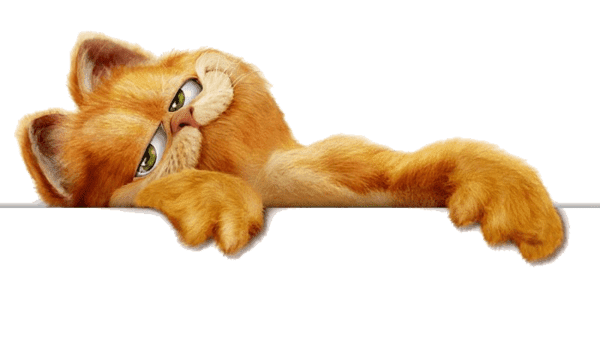
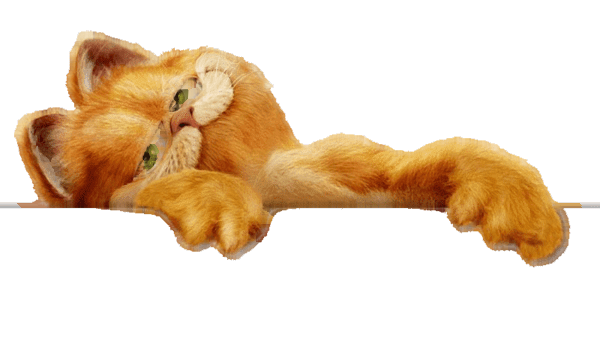
加菲猫白边清除(defringe v3)并 bump 版本号

diff --git a/docs/app.js b/docs/app.js
@@ -245,7 +245,7 @@
           <img class="rank-capsule" src="${CAPSULE(g.appid)}" alt="" loading="lazy"
                onerror="this.onerror=null;this.classList.add('is-icon');this.src='${icon ?? ''}'">
           <span class="rank-name" title="${escapeHtml(g.name)}">${escapeHtml(g.name)}${playing ? '<span class="tag playing">在玩</span>' : ''}</span>
-          <span class="rank-bar"><span style="${barStyle}"></span>${i === 0 ? '<img class="rank-cat" src="garfield.png?v=1" alt="" draggable="false">' : ''}</span>
+          <span class="rank-bar"><span style="${barStyle}"></span>${i === 0 ? '<img class="rank-cat" src="garfield.png?v=2" alt="" draggable="false">' : ''}</span>
           <span class="rank-min">${hm(g.lifetime_minutes)}</span>
           <span class="rank-last">${g.last_played ?? '—'}</span>
         </div>`;

diff --git a/docs/index.html b/docs/index.html
@@ -13,7 +13,7 @@
     document.documentElement.dataset.theme = ids[Math.floor(Math.random() * ids.length)];
   })();
 </script>
-<link rel="stylesheet" href="style.css?v=53">
+<link rel="stylesheet" href="style.css?v=54">
 <link rel="stylesheet" href="https://cdn.jsdelivr.net/npm/@fontsource/zcool-kuaile@5/index.min.css">
 <link rel="stylesheet" href="https://fonts.loli.net/css2?family=ZCOOL+KuaiLe&display=swap">
 <script src="https://cdn.jsdelivr.net/npm/echarts@5.5.1/dist/echarts.min.js"
@@ -169,6 +169,6 @@
   <span>数据每日 23:30（北京时间）自动更新</span>
 </footer>
 
-<script src="app.js?v=53" onerror="__appFail()"></script>
+<script src="app.js?v=54" onerror="__appFail()"></script>
 </body>
 </html>
